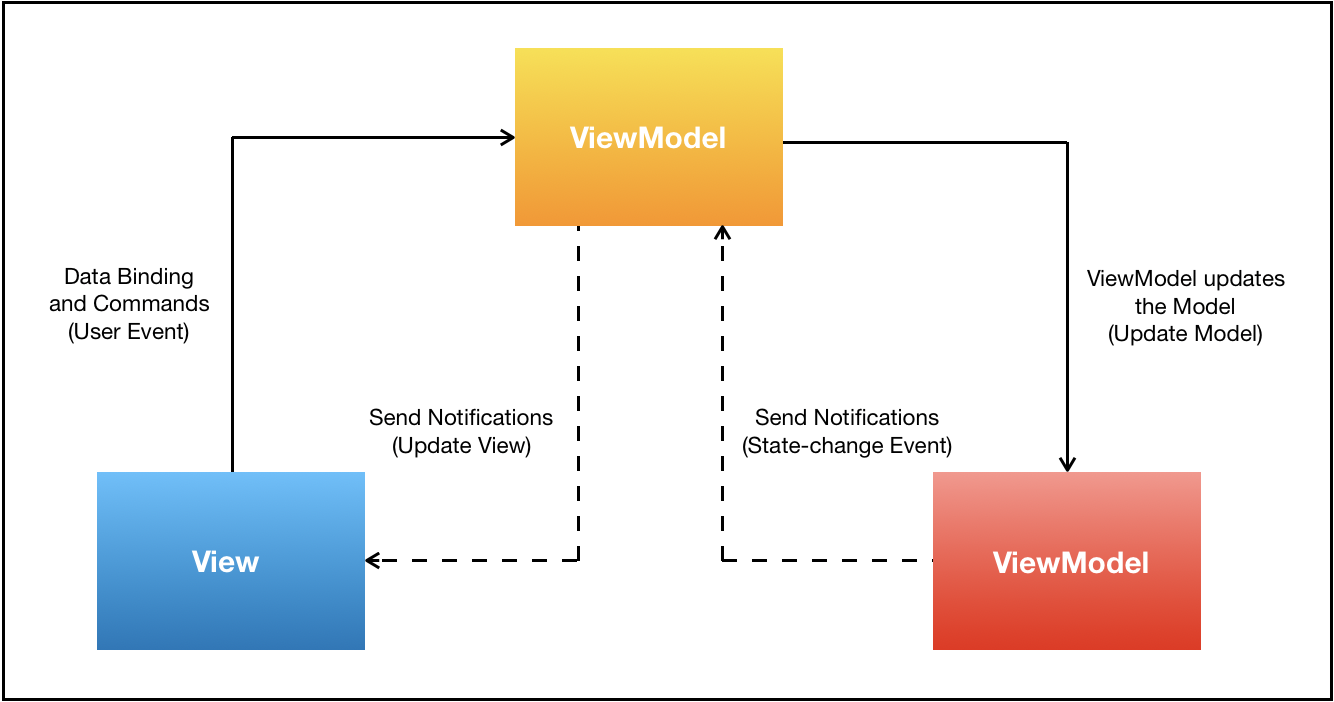
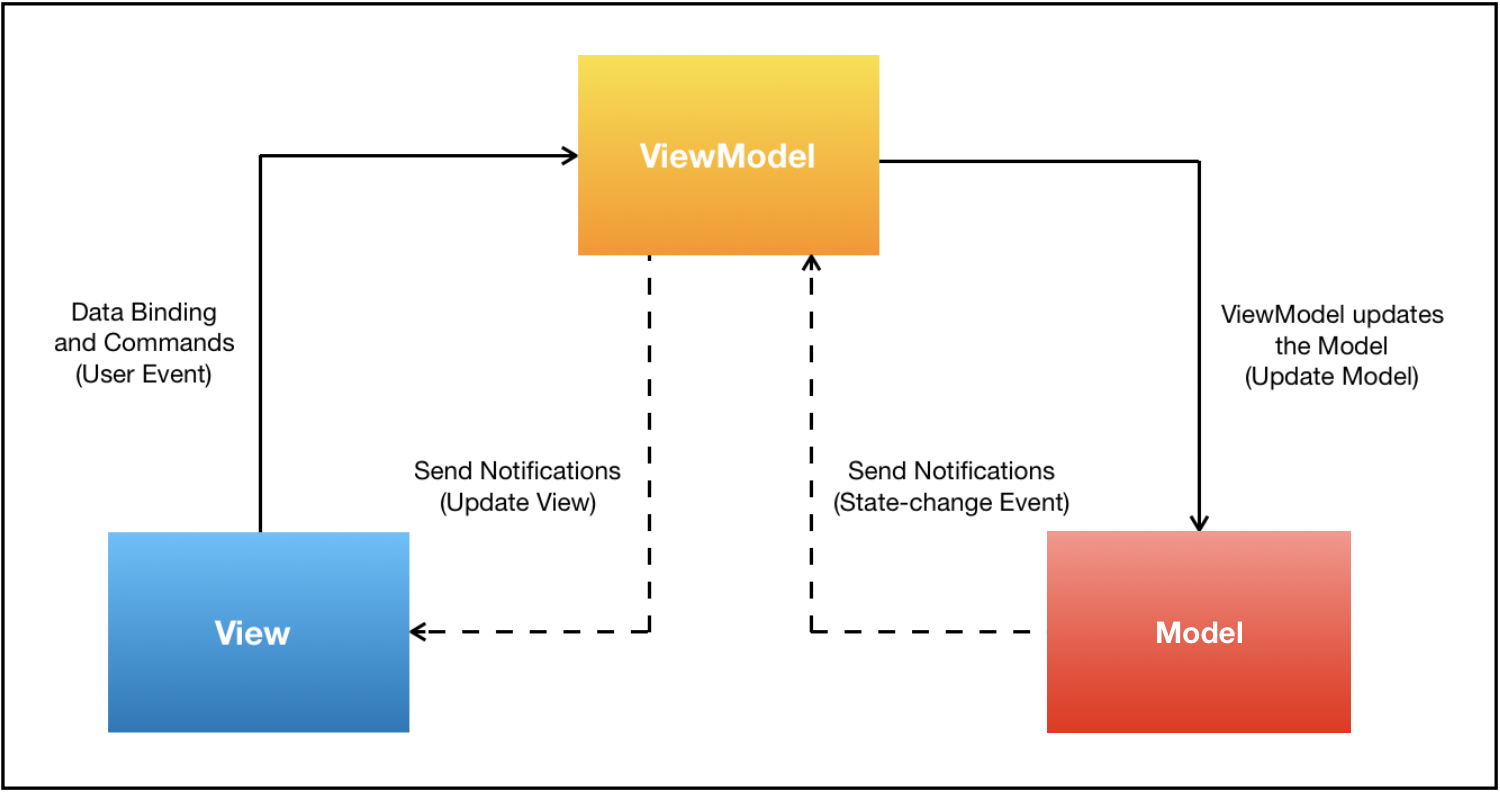
Update Files.

diff --git a/README.md b/README.md
@@ -1,14 +1,14 @@
-# MVVM
+# Android MVVM
 
-![AndroidMVVM](https://user-images.githubusercontent.com/53843178/63658483-debedf80-c7e5-11e9-9557-10bed7df87af.gif)
+<img width="400px" height="700px" src="https://user-images.githubusercontent.com/53843178/63658483-debedf80-c7e5-11e9-9557-10bed7df87af.gif" />
 <br/>
 <br/>
 
 
 
-## MVVM Pattern
+## MVVM Concept
 
-<img width="667" alt="MVVM" src="https://user-images.githubusercontent.com/52689243/63492369-4b8b5e80-c4f4-11e9-9b30-93323405ee04.png">
+<img width="750" alt="MVVM" src="https://user-images.githubusercontent.com/52689243/63658924-5e9a7900-c7e9-11e9-9ba6-08deaed6a36f.png">
 
 1. View 에 입력이 들어오면 Command 패턴으로 ViewModel 에 명령을 한다.
 2. ViewModel 은 필요한 데이터를 Model 에 요청한다.
@@ -62,7 +62,7 @@
 
 
 
-## Setting
+## Project Setting
 
 #### BaseApplication.kt
 
